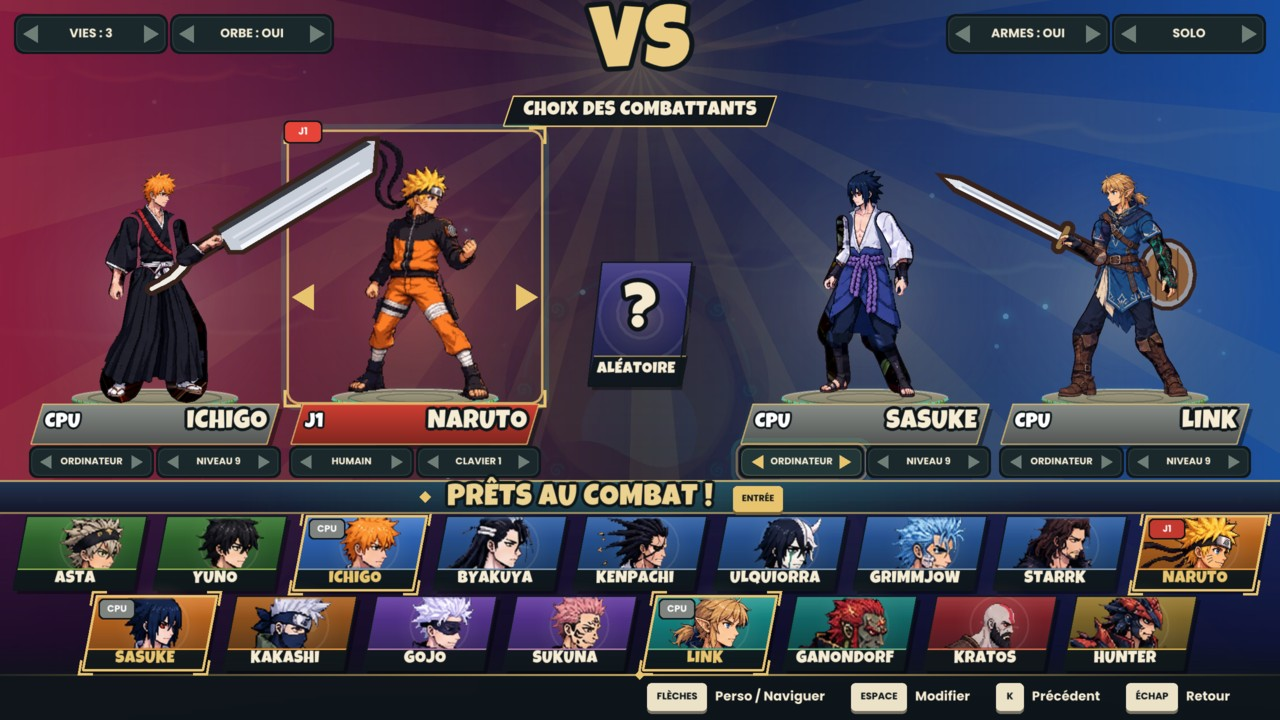
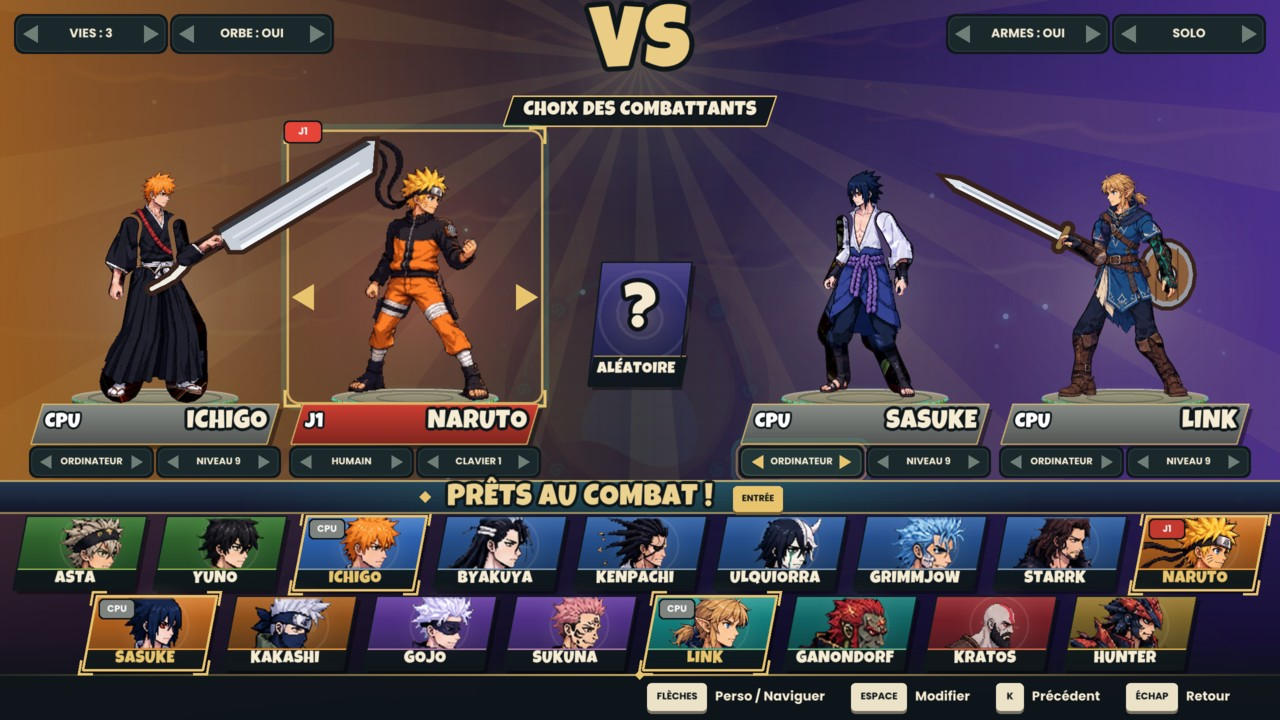
Version 8.2: each side of the character select glows in its fighter's colour
The light on the left takes the aura colour of the fighter picked by J1,
the light on the right the one picked by J2 (Naruto orange, Sasuke
violet, Ulquiorra green...); J3 and J4 do not change it. In a team
battle it follows the first player of each team, "?" runs through every
colour, and the light slides from one colour to the next when a player
changes fighter.

Claude-Session: https://claude.ai/code/session_01FnHjUgjm12ACzaJgKtXDcE

diff --git a/src/game/menus.cpp b/src/game/menus.cpp
@@ -1,5 +1,6 @@
 // Character select and stage select screens.
 #include "game/app.hpp"
+#include "game/fx.hpp"
 #include "game/menu_theme.hpp"
 #include "game/render.hpp"
 #include "game/settings.hpp"
@@ -14,6 +15,9 @@ int cardCount(bool training) { return training ? 2 : 4; }
 float g_slotX[4] = {410, 870, 140, 1140};  // set each frame by App::layoutCss
 float g_slotW[4] = {270, 270, 270, 270};
 int g_slotSide[4] = {0, 1, 0, 1};
+// The light of each side of the character select (left, right): rgb, sliding towards the colour it should have.
+float g_sideLight[2][3];
+bool g_sideLightSet = false;
 constexpr float kFeetY = 396, kPlateY = 404, kPlateH = 74;
 
 Rectangle plateRect(int col) {
@@ -373,10 +377,32 @@ void App::drawCss() {
   const Color night = th.night;
   ui::stageBackdrop(1, t, th.cssDim);
   DrawRectangleGradientV(0, 0, kScreenW, kScreenH, withAlpha(night, 0.55f), withAlpha(night, 0.2f));
-  const Color warm = teamsOn ? teamColor(0) : th.left;
-  const Color cool = teamsOn ? teamColor(1) : th.right;
-  DrawRectangleGradientH(0, 0, kScreenW / 2, kScreenH, withAlpha(warm, 0.55f), withAlpha(warm, 0.0f));
-  DrawRectangleGradientH(kScreenW / 2, 0, kScreenW / 2, kScreenH, withAlpha(cool, 0.0f), withAlpha(cool, 0.55f));
+  // The light of each side takes the aura colour of the fighter picked by the first player standing there (J1 on
+  // the left, J2 on the right: the others do not change it) and slides to it; "?" runs through every colour.
+  Color side[2];
+  for (int k = 0; k < 2; ++k) {
+    Color want = k == 0 ? th.left : th.right;
+    for (int col = 0; col < cols; ++col) {
+      if (g_slotSide[col] != k) continue;
+      const SlotSetup& s = slots_[col];
+      if ((training_ || s.type != 0) && !s.random) {
+        want = auraColor(r[s.character].hero);
+      } else if ((training_ || s.type != 0) && s.random) {
+        const int n = int(r.size());
+        const float f = t * 0.8f + k * 5.0f;
+        const int i0 = int(f) % n;
+        want = mixColor(auraColor(r[i0].hero), auraColor(r[(i0 + 1) % n].hero), f - std::floor(f));
+      }
+      break;  // only the first player of the side
+    }
+    const float rgb[3] = {float(want.r), float(want.g), float(want.b)};
+    for (int c = 0; c < 3; ++c) g_sideLight[k][c] = g_sideLightSet ? lerpf(g_sideLight[k][c], rgb[c], 0.12f) : rgb[c];
+    side[k] = {(unsigned char)(g_sideLight[k][0] + 0.5f), (unsigned char)(g_sideLight[k][1] + 0.5f),
+               (unsigned char)(g_sideLight[k][2] + 0.5f), 255};
+  }
+  g_sideLightSet = true;
+  DrawRectangleGradientH(0, 0, kScreenW / 2, kScreenH, withAlpha(side[0], 0.55f), withAlpha(side[0], 0.0f));
+  DrawRectangleGradientH(kScreenW / 2, 0, kScreenW / 2, kScreenH, withAlpha(side[1], 0.0f), withAlpha(side[1], 0.55f));
   {
     const Vector2 c{kScreenW * 0.5f, 62};
     for (int k = 0; k < 18; ++k) {

diff --git a/src/game/screen_title.cpp b/src/game/screen_title.cpp
@@ -171,7 +171,7 @@ void App::drawTitle() {
     drawTextOutlined(txt, x, 368, 26, withAlpha(ui::kCream, a), withAlpha(ui::kInk, a), 2.5f);
     ui::prompt("ENTRÉE", ui::Btn::Start, x + textWidth(txt, 26) + 14, 381 - ph * 0.5f, ph, true);
   }
-  drawTextOutlined("v8.1", kScreenW - 54, kScreenH - 26, 15, ui::kCream, ui::kInk, 2.0f);
+  drawTextOutlined("v8.2", kScreenW - 54, kScreenH - 26, 15, ui::kCream, ui::kInk, 2.0f);
   drawTextOutlined("C++ & raylib", 16, kScreenH - 26, 15, ui::kCream, ui::kInk, 2.0f);
   if (f >= 22 && f < 40) DrawRectangle(0, 0, kScreenW, kScreenH, withAlpha({255, 248, 228, 255}, (40 - f) / 18.0f * 0.7f));
 }

diff --git a/src/game/fx.cpp b/src/game/fx.cpp
@@ -44,6 +44,15 @@ AuraLook auraLook(Hero h) {
   }
 }
 
+}  // namespace
+
+Color auraColor(Hero h) {
+  if (h == Hero::Asta) return {186, 26, 44, 255};  // anti-magic: black aura, a blood-red glow
+  const AuraLook a = auraLook(h);
+  return a.dark ? a.inner : a.outer;
+}
+
+namespace {
 // One layer of flame: a soft blob whose rim licks upwards in flickering tongues.
 void kiFlame(Vec2 c, float H, float scale, float t, Color col, float alpha, float seed) {
   constexpr int kN = 30;

diff --git a/src/game/fx.hpp b/src/game/fx.hpp
@@ -6,6 +6,9 @@
 #include "game/audio.hpp"
 #include "game/common.hpp"
 
+// The colour of a fighter's ki aura, bright (the light of its side on the character select).
+Color auraColor(Hero h);
+
 // Visual + audio feedback driven by the simulation's events.
 class Fx {
  public:

diff --git a/README.md b/README.md
@@ -309,7 +309,10 @@ mouvement des manettes PlayStation, que Linux présente comme des manettes à pa
   contre bleus), une plaque sous chacun (nom, humain / ordinateur, clavier / manette ou niveau), la case
   **« ? »** au centre et tous les combattants en grille en bas : le visage de chacun en gros plan sur la
   couleur de son univers (vert Black Clover, bleu Bleach, orange Naruto, violet Jujutsu Kaisen, turquoise
-  Zelda, rouge God of War, or Monster Hunter), son nom en dessous. **Chaque joueur a son propre curseur**
+  Zelda, rouge God of War, or Monster Hunter), son nom en dessous. La **lumière de chaque côté** prend la
+  couleur de l'aura du combattant choisi par le premier joueur de ce côté : J1 à gauche (orange pour Naruto),
+  J2 à droite (violet pour Sasuke) ; J3 et J4 ne la changent pas. En équipes, c'est le premier joueur de
+  chaque équipe, et « ? » fait défiler toutes les couleurs. **Chaque joueur a son propre curseur**
   (étiquette J1, J2... de sa couleur) : gauche / droite change son combattant ; une ligne plus bas (la
   plaque), son clavier ou sa manette, ou le niveau d'un ordinateur ; sur le type (HUMAIN / ORDINATEUR),
   gauche / droite passe à un autre joueur. La case **« ? »** tire un combattant au sort au début du combat,
@@ -347,9 +350,9 @@ afficher les zones de coup. Pour voir les boutons d'une manette sans en avoir un
 
 Deux archives prêtes à lancer se fabriquent avec `scripts/package_release.sh` (dans `dist/`) :
 
-- **Linux 64 bits** (`SuperClashBros-8.1-linux-x64.tar.gz`, Ubuntu 24.04 ou plus récent) : décompresser,
+- **Linux 64 bits** (`SuperClashBros-8.2-linux-x64.tar.gz`, Ubuntu 24.04 ou plus récent) : décompresser,
   puis dans un terminal ouvert dans le dossier : `./super_clash`.
-- **Windows 64 bits** (`SuperClashBros-8.1-windows-x64.zip`) : décompresser, puis double-cliquer sur
+- **Windows 64 bits** (`SuperClashBros-8.2-windows-x64.zip`) : décompresser, puis double-cliquer sur
   `super_clash.exe` (si Windows affiche « Windows a protégé votre ordinateur » : « Informations
   complémentaires » puis « Exécuter quand même »).
 
